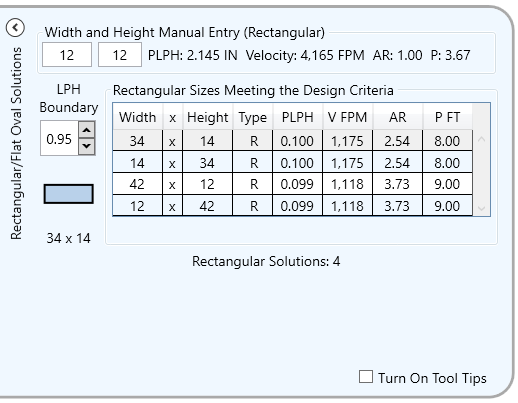
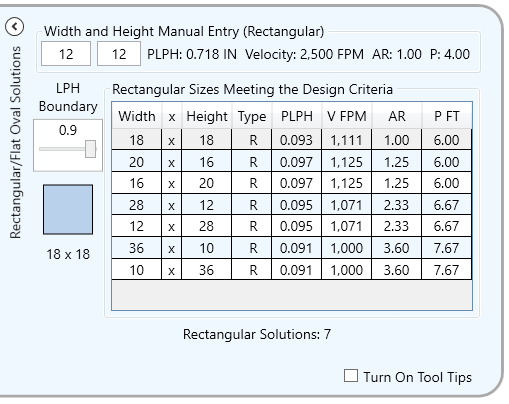
Calc Table Background worker
Also added fresh images

Changed region(s): [[0.0, 0.0298, 1.0, 1.0], [0.0, 0.0, 0.943, 0.0893], [0.3536, 0.804, 0.6483, 0.8635]]

diff --git a/WpfaksDuctOMatic/DuctOMaticMainWindow.xaml b/WpfaksDuctOMatic/DuctOMaticMainWindow.xaml
@@ -833,12 +833,13 @@
                                           CanUserDeleteRows="False"
                                           CanUserAddRows="False"
                                           IsReadOnly="True"
-                                          MaxHeight="250"
+                                          Height="210"
+                                          MaxHeight="210"
                                           AlternatingRowBackground="AliceBlue"
                                           HeadersVisibility="Column"
                                           HorizontalAlignment="Stretch"
                                           VerticalAlignment="Top"
-                                          VerticalScrollBarVisibility="Visible"
+                                          VerticalScrollBarVisibility="Auto"
                                           AutoGenerateColumns="False"
                                           SelectionMode="Single"
                                           Margin="2,4,2,2"

diff --git a/WpfaksDuctOMatic/DuctOMaticMainWindow.xaml.cs b/WpfaksDuctOMatic/DuctOMaticMainWindow.xaml.cs
@@ -1,14 +1,18 @@
 using System;
+using System.ComponentModel;
 using System.Data;
 using System.Linq;
+using System.Timers;
 using System.Windows;
 using System.Windows.Controls;
 using System.Windows.Input;
 
 namespace WpfaksDuctOMatic {
-
     public partial class MainWindow : Window {
         public DuctOMaticSession sessionModel = new DuctOMaticSession();
+        private readonly BackgroundWorker bwTableSolutions = new BackgroundWorker();
+        static Timer timerRetryUntilNotBusy;
+        internal TableSolutionArgs m_Argument;
         bool Silent = false;
         public double Dinc;
         public double d_inc = 1;
@@ -26,9 +30,10 @@ namespace WpfaksDuctOMatic {
 
         private void Window_Loaded(object sender, RoutedEventArgs e) {
             GetInits();
+            SetUpBackgroundWorkers();
             RunSolutions();
         }
-        
+
         public void GetInits() {
             Silent = true;
             sessionModel.CFM = Properties.Settings.Default.setCFM;
@@ -78,6 +83,220 @@ namespace WpfaksDuctOMatic {
             Properties.Settings.Default.Save();
         }
 
+        private void SetUpBackgroundWorkers() {
+            bwTableSolutions.WorkerSupportsCancellation = true;
+            bwTableSolutions.WorkerReportsProgress = true;
+            bwTableSolutions.DoWork += new DoWorkEventHandler(BwTableSolutions_DoWork);
+            bwTableSolutions.RunWorkerCompleted += new RunWorkerCompletedEventHandler(BwTableSolutions_RunWorkerCompleted);
+
+            timerRetryUntilNotBusy = new System.Timers.Timer(1);
+            timerRetryUntilNotBusy.Elapsed += new ElapsedEventHandler(Checkertimer_Elapsed);
+        }
+
+        private void RunBackgroundWorkerTableSolutions(double cfm, double lph, double surfe, bool colebrook, bool limitvelocity, double vellimit) {
+            if (!IsInitialized | !IsLoaded) { return; }
+            if (FlunkCriticals()) { return; };
+            TableSolutionArgs thisTableSol = new TableSolutionArgs {
+                Cfm = cfm,
+                Lph = lph,
+                Surfe = surfe,
+                Colebrook = colebrook,
+                Limitvelocity = limitvelocity,
+                Vellimit = vellimit,
+                MaxAr = sessionModel.MaxAR,
+                DLiner = sessionModel.Dliner,
+                LphMargin = sessionModel.LphMargin,
+                Dtype = sessionModel.Dtype,
+                ChkHRange = sessionModel.ChkHRange,
+                HtLL = sessionModel.HtLL,
+                HtUL = sessionModel.HtUL,
+                ChkWRange = sessionModel.ChkWRange,
+                WtLL = sessionModel.WtLL,
+                WtUL = sessionModel.WtUL
+            };
+            BeginBackgroundWork(thisTableSol);
+        }
+        
+        private void BeginBackgroundWork(TableSolutionArgs argument) {
+            // (m_Argument != null)
+            // must be tested before m_BackgroundWorker.IsBusy in case a
+            // remaining task is waited to be executed by the next timer tick.
+            if (m_Argument != null) {
+                m_Argument = argument;
+                return;
+            }
+            if (!bwTableSolutions.IsBusy) {
+                string solTypeText = StrSoluT();
+                sessionModel.SolTable.Clear();
+                sessionModel.Ductshapevis = Visibility.Hidden;
+                sessionModel.SolutionsMsg = "Calculating " + solTypeText + " Solutions .......";
+                bwTableSolutions.RunWorkerAsync(argument);
+                return;
+            }
+            m_Argument = argument;
+            bwTableSolutions.CancelAsync();
+            sessionModel.SolutionsMsg = "Calculation cancel is pending .....";
+            timerRetryUntilNotBusy.Enabled = true;
+            timerRetryUntilNotBusy.Start();
+            return;
+        }
+        
+        private void Checkertimer_Elapsed(object sender, ElapsedEventArgs e) {
+            if (bwTableSolutions.IsBusy) { return; }
+            timerRetryUntilNotBusy.Stop();
+            bwTableSolutions.RunWorkerAsync(m_Argument);
+            m_Argument = null;
+            return;
+        }
+        
+        private void BwTableSolutions_RunWorkerCompleted(object sender, RunWorkerCompletedEventArgs e) {
+            if ((e.Cancelled)) {
+                // do nothing
+            } else if (!(e.Error == null)) {
+                sessionModel.SolutionsMsg = ("Error: " + e.Error.Message);
+            } else {
+                if (e.Result == null) {
+                    sessionModel.SolutionsMsg = "Last error was: " + e.Result.ToString().Trim();
+                } else {
+                    //// The process completed successfully.
+                    sessionModel.SolTable = e.Result as SolutionsTable;
+                    if (sessionModel.SolTable.Rows.Count > 0) {
+                        // When DataTables are bound to DataGrids, the items seen in the window are
+                        // DataRowViews that correspond to the DataTable's DataRows.
+                        DataRowView sdrv = sessionModel.SolTable.DefaultView[0] as DataRowView;
+                        sessionModel.SelrowSolTable = sdrv;
+                        UpDateDuctGraphic();
+                    }
+
+                    if (sessionModel.SolTable.Rows.Count == 0 && sessionModel.ChkVelLimit) {
+                        string msg = "There are no solutions that meet all the criteria.";
+                        msg = msg + "\n\n" + "Duct sizes can have an energy loss peformance much";
+                        msg = msg + " better than how close the 'LPH Boundary' factor allows for";
+                        msg = msg + " a selection when the 'LPH Boundary' value is high and the CFM is small.";
+                        msg = msg + "\n\n" + "Duct sizes can also result in air velocities larger";
+                        msg = msg + " than the velocity limit.";
+
+                        sessionModel.SolutionsMsg = msg;
+                        sessionModel.Ductshapevis = Visibility.Hidden;
+                    } else {
+                        sessionModel.SolutionsMsg = StrSoluT() + " Solutions: " + sessionModel.SolTable.Rows.Count.ToString();
+                        sessionModel.Ductshapevis = Visibility.Visible;
+                    }
+                }
+            }
+        }
+
+        private void BwTableSolutions_DoWork(object sender, DoWorkEventArgs e) {
+            BackgroundWorker worker = sender as BackgroundWorker;
+            TableSolutionArgs TSA = e.Argument as TableSolutionArgs;
+
+            double cfm = TSA.Cfm;
+            double lph = TSA.Lph;
+            double surfe = TSA.Surfe;
+            bool colebrook = TSA.Colebrook;
+            bool limitvelocity = TSA.Limitvelocity;
+            double vellimit = TSA.Vellimit;
+            double maxAr = TSA.MaxAr;
+            double dLiner = TSA.DLiner;
+            double lphMargin = TSA.LphMargin;
+            int dtype = TSA.Dtype;
+            bool chkHRange = TSA.ChkHRange;
+            double htLL = TSA.HtLL;
+            double htUL = TSA.HtUL;
+            bool chkWRange = TSA.ChkWRange;
+            double wtLL = TSA.WtLL;
+            double wtUL = TSA.WtUL;
+            DataTable argSolTable = new SolutionsTable();//   TSA.SolutTable;
+
+            double _tryLPH = 0;
+            double _rEqCirDct = 0;
+            int _maxDuct = 0;
+            int _maxDuctH = 0;
+            int _maxDuctW = 0;
+            double _area_sf = 0;
+            string _typ = null;
+            double _dVel = 0;
+            double _HtBot = 0;
+            double _WtBot = 0;
+
+            _maxDuct = Convert.ToInt32(Math.Truncate((maxAr - 1) * ReqEqvCirDuct(cfm, lph, surfe, colebrook, limitvelocity, vellimit)));
+            _maxDuct = Convert.ToInt32(Math.Max(_maxDuct, 6));
+            // limit lower size
+            _maxDuctH = _maxDuct;
+            _maxDuctW = _maxDuct;
+            _HtBot = 6;
+            _WtBot = 6;
+            if (chkHRange) {
+                _HtBot = htLL;
+                _maxDuctH = Convert.ToInt32(htUL);
+            }
+            if (chkWRange) {
+                _WtBot = wtLL;
+                _maxDuctW = Convert.ToInt32(wtUL);
+            }
+
+            if (_HtBot == 0 | _WtBot == 0 | _maxDuctH <= 0 | _maxDuctW <= 0) {
+                return;
+            }
+
+            _typ = (dtype == 0 ? " R" : " FO");
+            double DDLiner = 2 * dLiner;
+            for (double ductHeight = _HtBot; ductHeight <= _maxDuctH; ductHeight += Dinc) {
+                if ((worker.CancellationPending)) {
+                    e.Cancel = true;
+                    return;
+                }
+                if (argSolTable.Rows.Count > 60) { break; }
+                for (double wt = _WtBot; wt <= _maxDuctW; wt += Dinc) {
+                    if ((worker.CancellationPending)) {
+                        e.Cancel = true;
+                        return;
+                    }
+                    // check ar and even size first
+                    if ((Math.Max(wt, ductHeight) / Math.Min(wt, ductHeight) <= maxAr) && ((wt + DDLiner) % 2 == 0) && ((ductHeight + DDLiner) % 2 == 0)) {
+                        _rEqCirDct = DhEqCircRO(ductHeight, wt, dtype);
+                        _tryLPH = CircDuctPLPH(cfm, _rEqCirDct, surfe, colebrook);
+                        // margin check
+                        if ((_tryLPH <= lph) && (_tryLPH > lphMargin * lph)) {
+                            _area_sf = DAreaRO(wt, ductHeight, dtype);
+                            _dVel = Vel(cfm, _area_sf);
+                            // velocity limit check, if fails then skip this for
+                            if ((limitvelocity) && (_dVel > vellimit)) {
+                                continue;
+                            }
+                            double drWt = wt + DDLiner;
+                            double drHt = ductHeight + DDLiner;
+                            double drPFT = DuctPFT(drWt, drHt, dtype);
+                            // inlist check, if already in list as reverse size then skip this solution
+                            //    if (InList(drWt, drHt)) { continue; }
+                            if (InList(drHt, drWt, argSolTable)) {
+                                continue;
+                            }
+                            DataRow dr = argSolTable.NewRow();
+                            dr[0] = drWt;
+                            dr[1] = "x";
+                            dr[2] = drHt;
+                            dr[3] = _typ;
+                            dr[4] = _tryLPH.ToString("0.000");
+                            dr[5] = _dVel.ToString("#,##0");
+                            dr[6] = (Math.Max(wt, ductHeight) / Math.Min(wt, ductHeight)).ToString("0.00");
+                            dr[7] = drPFT.ToString("0.00");
+                            argSolTable.Rows.Add(dr);
+                        }
+                    }
+                    if (argSolTable.Rows.Count > 60) {
+                        break;
+                    }
+                }
+            }
+            // sort by aspect ratio first, then by pressure loss
+            // This puts the most efficient section at the list top. 
+            // sessionModel.SolTable.DefaultView.Sort = "PFT ASC, AR ASC, PLPH DESC";
+            argSolTable.DefaultView.Sort = "AR ASC, PLPH ASC";
+            // Backgroundworker return value
+            e.Result = argSolTable;
+        }
+
         private void SetToNullState(bool includeDV) {
             if (includeDV) {
                 sessionModel.StrEquivCircDiameter = "Diameter (IN): N/A";
@@ -95,8 +314,6 @@ namespace WpfaksDuctOMatic {
         /// calculates the ashre circular soultion 
         /// </summary>
         public void CalcCircularAndTableSolutions() {
-            if (!IsInitialized | !IsLoaded) { return; }
-            if (FlunkCriticals()) { return; };
             double req_airstream_CirDctDiam = 0;
             double area_sf = 0;
             double plphft_inH2O = 0;
@@ -122,7 +339,8 @@ namespace WpfaksDuctOMatic {
                 sessionModel.StrEquivCircDuctPLPH = "PLPH: " + plphft_inH2O.ToString("0.000") + " IN H2O";
                 sessionModel.StrEquivCircDuctVel = "Velocity: " + Vel(cfm, area_sf).ToString("#,##0") + " FPM";
                 sessionModel.StrMaterialUse = "Material/FT (SF): " + sfPft.ToString("#,##0.00");
-                RectSolu(cfm, lossperhundred, surfe, colebrook, limitthevelocity, vellimit);
+                //RectSolu(cfm, lossperhundred, surfe, colebrook, limitthevelocity, vellimit);
+                RunBackgroundWorkerTableSolutions(cfm, lossperhundred, surfe, colebrook, limitthevelocity, vellimit);
                 return;
             }
         }
@@ -364,9 +582,12 @@ namespace WpfaksDuctOMatic {
         }
 
         private void RunSolutions() {
-            if (FlunkCriticals()) { return; }
-            CalcCircularAndTableSolutions();
-            CalcManualSolution();
+           if (IsVisible && IsLoaded && IsEnabled && IsInitialized ) {
+                if (FlunkCriticals()) { return; }
+                CalcCircularAndTableSolutions();
+                CalcManualSolution();
+            }
+           
         }
 
         /// <summary>
@@ -434,7 +655,7 @@ namespace WpfaksDuctOMatic {
                             double drPFT = DuctPFT(drWt, drHt, Dtype);
                             // inlist check, if already in list as reverse size then skip this solution
                             //    if (InList(drWt, drHt)) { continue; }
-                            if (InList(drHt, drWt)) { continue; }
+                            if (InList(drHt, drWt, sessionModel.SolTable)) { continue; }
                             DataRow dr = sessionModel.SolTable.NewRow();
                             dr[0] = drWt;
                             dr[1] = "x";
@@ -506,9 +727,9 @@ namespace WpfaksDuctOMatic {
         /// <param width="wt"></param>
         /// <param height="ht"></param>
         /// <returns></returns>
-        public bool InList(double wt, double ht) {
+        public bool InList(double wt, double ht, DataTable solTable) {
             string expression = "Width = " + ht + " and Height = " + wt;
-            DataRow drinlist = sessionModel.SolTable.Select(expression).FirstOrDefault();
+            DataRow drinlist = solTable.Select(expression).FirstOrDefault();
             if (drinlist != null) {
                 return true;
             }
@@ -679,11 +900,12 @@ namespace WpfaksDuctOMatic {
         }
 
         private void Window_Closing(object sender, System.ComponentModel.CancelEventArgs e) {
+            if (bwTableSolutions.IsBusy == true) { bwTableSolutions.Dispose(); }
             SaveState();
         }
 
         private void LPHMarginSlider_ValueChanged(object sender, RoutedPropertyChangedEventArgs<double> e) {
-           RunSolutions();
+            RunSolutions();
         }
     } /// main window class
 }

diff --git a/WpfaksDuctOMatic/TableSolutionArgs.cs b/WpfaksDuctOMatic/TableSolutionArgs.cs
@@ -1,0 +1,20 @@
+namespace WpfaksDuctOMatic {
+    internal class TableSolutionArgs {
+        public double Cfm { get; set; }
+        public double Lph { get; set; }
+        public double Surfe { get; set; }
+        public bool Colebrook { get; set; }
+        public bool Limitvelocity { get; set; }
+        public double Vellimit { get; set; }
+        public double MaxAr { get; set; }
+        public double DLiner { get; set; }
+        public double LphMargin { get; set; }
+        public int Dtype { get; set; }
+        public bool ChkHRange { get; set; }
+        public double HtLL { get; set; }
+        public double HtUL { get; set; }
+        public bool ChkWRange { get; set; }
+        public double WtLL { get; set; }
+        public double WtUL { get; set; }
+    }
+}
